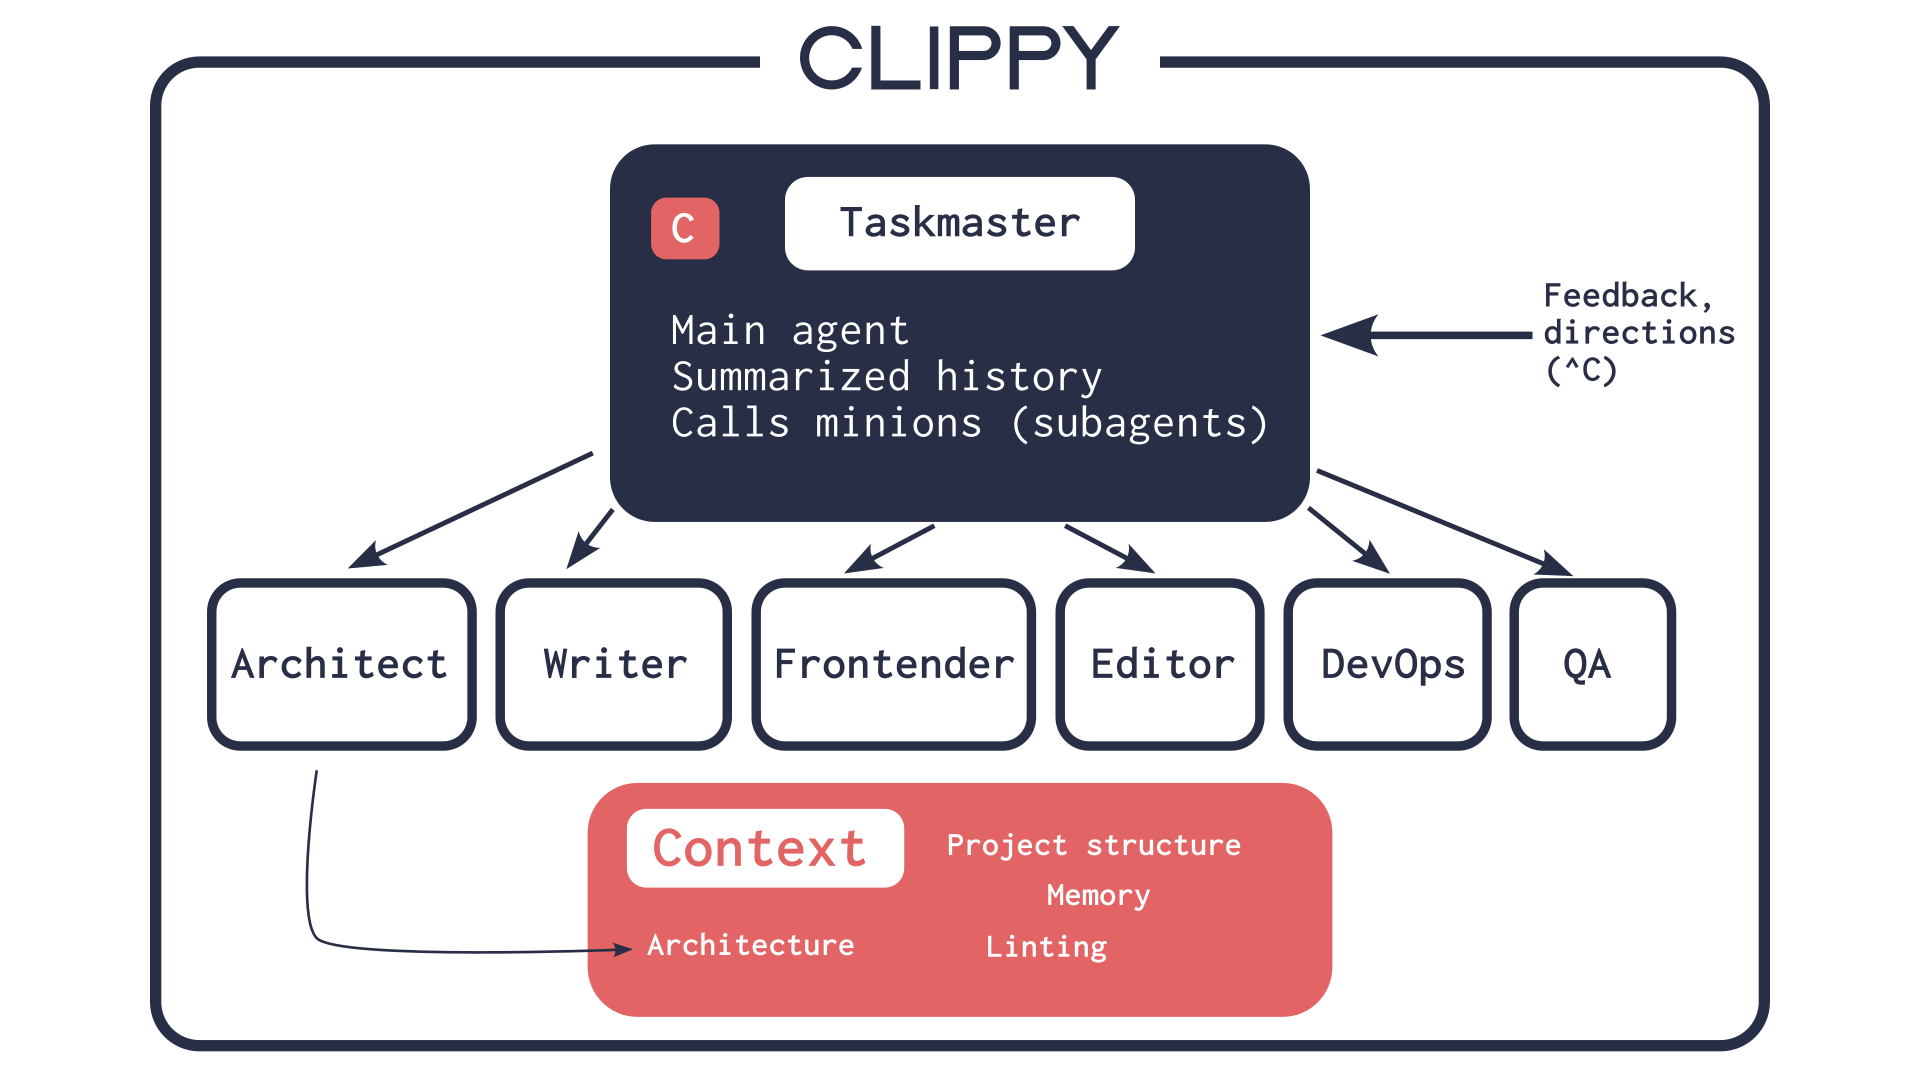
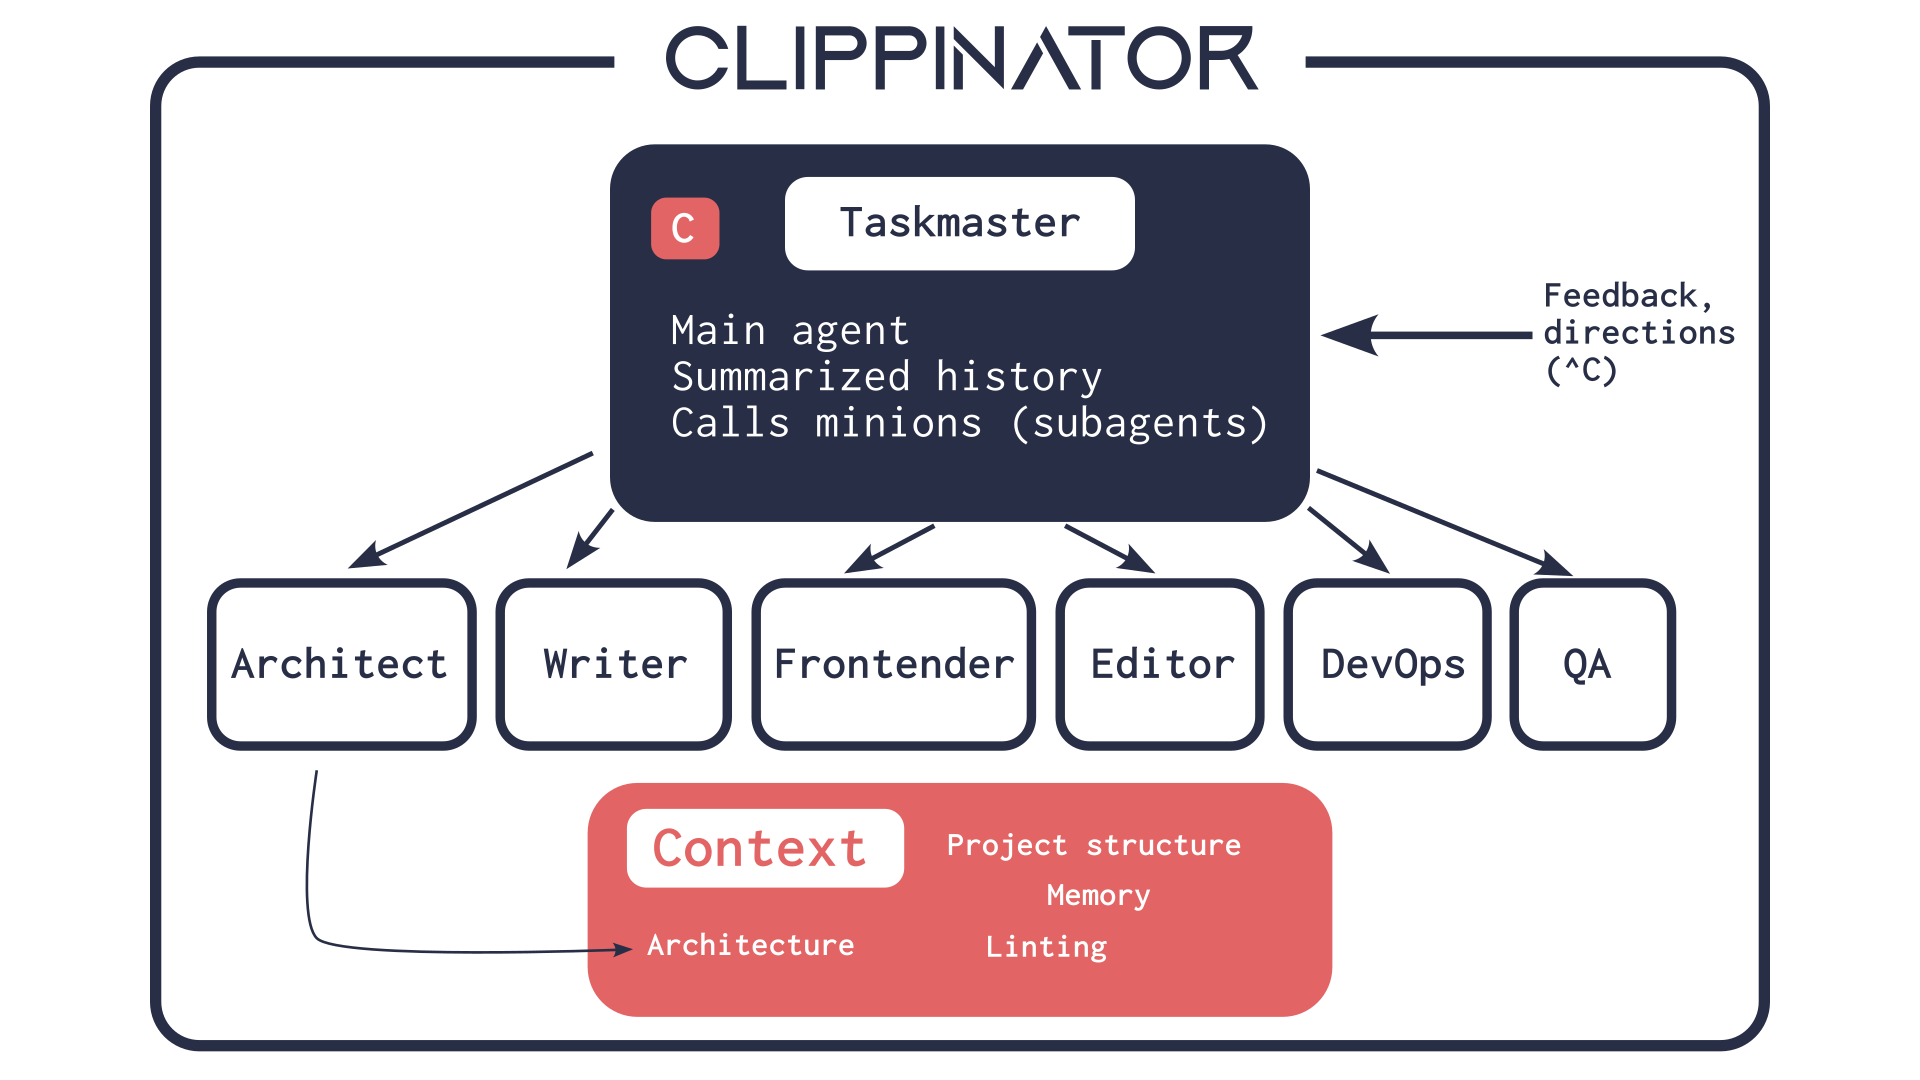
Renaming

Changed region(s): [[0.3125, 0.0, 0.6875, 0.0917]]

diff --git a/clippinator/project/project.py b/clippinator/project/project.py
@@ -4,7 +4,7 @@ import os
 import subprocess
 from dataclasses import dataclass, field
 
-from clippy.project.project_summary import get_file_summary
+from clippinator.project.project_summary import get_file_summary
 
 
 @dataclass
@@ -36,7 +36,7 @@ class Project:
             dir2:
                 file3.py
         """
-        from clippy.tools.utils import skip_file, skip_file_summary, trim_extra
+        from clippinator.tools.utils import skip_file, skip_file_summary, trim_extra
 
         res = ""
         if not os.path.isdir(path):
@@ -65,8 +65,8 @@ class Project:
         return res
 
     def lint(self, path: str = ''):
-        from clippy.tools.code_tools import lint_project
-        from clippy.tools.utils import trim_extra
+        from clippinator.tools.code_tools import lint_project
+        from clippinator.tools.utils import trim_extra
 
         path = os.path.join(self.path, path)
         path = path or self.path
@@ -81,8 +81,8 @@ class Project:
         return lint_project(path)
 
     def lint_file(self, path: str):
-        from clippy.tools.code_tools import lint_file
-        from clippy.tools.utils import trim_extra
+        from clippinator.tools.code_tools import lint_file
+        from clippinator.tools.utils import trim_extra
 
         path = os.path.join(self.path, path)
         if self.ci_commands.get('lintfile', '').strip():
@@ -101,7 +101,7 @@ class Project:
         return self.summary_cache
 
     def menu(self, prompt=None):
-        from clippy.tools.utils import select, get_input_from_editor
+        from clippinator.tools.utils import select, get_input_from_editor
         prompt_options = ["Edit action summary"] * (prompt is not None)
         res = select(["Continue", "Architecture", "Objective", "Memories", "CI"] + prompt_options, "Project Menu")
         if res == 1:
@@ -119,7 +119,7 @@ class Project:
             prompt.last_summary = get_input_from_editor(prompt.last_summary)
 
     def prompt_fields(self) -> dict:
-        from clippy.tools.architectural import templates
+        from clippinator.tools.architectural import templates
 
         default_architecture = templates['General']['architecture']
 

diff --git a/clippinator/__main__.py b/clippinator/__main__.py
@@ -4,9 +4,9 @@ import rich
 import typer
 from dotenv import load_dotenv
 
-from clippy.minions.taskmaster import Taskmaster
-from clippy.project import Project
-from clippy.tools.utils import text_prompt
+from clippinator.minions.taskmaster import Taskmaster
+from clippinator.project import Project
+from clippinator.tools.utils import text_prompt
 
 load_dotenv()
 
@@ -16,20 +16,20 @@ app = typer.Typer(help="Clippy is an AI coding assistant.")
 @app.command()
 def taskmaster(project_path: str, objective: str = ""):
     """
-    Create a new project using clippy.
+    Create a new project using clippinator.
     """
     try:
         if not objective and not os.path.exists(
-                os.path.join(project_path, ".clippy.pkl")
+                os.path.join(project_path, ".clippinator.pkl")
         ):
             objective = text_prompt("What project do I need to create?\n")
-        if not objective and os.path.exists(os.path.join(project_path, ".clippy.pkl")):
-            print(os.path.join(project_path, ".clippy.pkl"))
-            tm = Taskmaster.load_from_file(os.path.join(project_path, ".clippy.pkl"))
+        if not objective and os.path.exists(os.path.join(project_path, ".clippinator.pkl")):
+            print(os.path.join(project_path, ".clippinator.pkl"))
+            tm = Taskmaster.load_from_file(os.path.join(project_path, ".clippinator.pkl"))
             tm.run(**tm.project.prompt_fields())
             return
-        elif os.path.exists(os.path.join(project_path, ".clippy.pkl")):
-            tm = Taskmaster.load_from_file(os.path.join(project_path, ".clippy.pkl"))
+        elif os.path.exists(os.path.join(project_path, ".clippinator.pkl")):
+            tm = Taskmaster.load_from_file(os.path.join(project_path, ".clippinator.pkl"))
             project = tm.project
             project.objective = objective
             tm = Taskmaster(project)

diff --git a/clippinator/minions/taskmaster.py b/clippinator/minions/taskmaster.py
@@ -6,10 +6,10 @@ import pickle
 from langchain import LLMChain
 from langchain.agents import AgentExecutor, LLMSingleActionAgent
 
-from clippy.project import Project
-from clippy.tools import get_tools, SimpleTool
-from clippy.tools.subagents import Subagent
-from clippy.tools.tool import WarningTool
+from clippinator.project import Project
+from clippinator.tools import get_tools, SimpleTool
+from clippinator.tools.subagents import Subagent
+from clippinator.tools.tool import WarningTool
 from .base_minion import (
     CustomOutputParser,
     CustomPromptTemplate,
@@ -101,7 +101,7 @@ class Taskmaster:
     def save_to_file(self, path: str = ""):
         if not os.path.exists(self.project.path):
             return
-        path = path or os.path.join(self.project.path, f".clippy.pkl")
+        path = path or os.path.join(self.project.path, f".clippinator.pkl")
         with open(path, "wb") as f:
             prompt = {
                 "current_context_length": self.prompt.current_context_length,
@@ -113,7 +113,7 @@ class Taskmaster:
             pickle.dump((prompt, self.project), f)
 
     @classmethod
-    def load_from_file(cls, path: str = ".clippy.pkl"):
+    def load_from_file(cls, path: str = ".clippinator.pkl"):
         with open(path, "rb") as f:
             prompt, project = pickle.load(f)
         self = cls(project)

diff --git a/clippinator/minions/executioner.py b/clippinator/minions/executioner.py
@@ -1,7 +1,7 @@
 import yaml
 
-from clippy import tools
-from clippy.project import Project
+from clippinator import tools
+from clippinator.project import Project
 from .base_minion import BaseMinion, BaseMinionOpenAI
 from .prompts import execution_prompt, get_specialized_prompt
 from ..tools.architectural import DeclareArchitecture
@@ -58,7 +58,7 @@ def specialized_executioner(name: str, description: str, prompt: str,
 
 
 def get_specialized_executioners(project) -> dict[str, SpecializedExecutioner]:
-    with open('clippy/minions/specialized_minions.yaml') as f:
+    with open('clippinator/minions/specialized_minions.yaml') as f:
         data = yaml.load(f, Loader=yaml.FullLoader)
         return {line['name']: specialized_executioner(**{k.replace('-', '_'): v for k, v in line.items()})(project)
                 for line in data}

diff --git a/clippinator/tools/subagents.py b/clippinator/tools/subagents.py
@@ -2,14 +2,14 @@ from __future__ import annotations
 
 import typing
 
-from clippy.project import Project
+from clippinator.project import Project
 from .terminal import get_pids, end_sessions
 from .tool import SimpleTool
 from .utils import trim_extra, get_input_from_editor, yes_no_prompt
 from ..minions import extract_agent_name
 
 if typing.TYPE_CHECKING:
-    from clippy.minions.executioner import SpecializedExecutioner, Executioner
+    from clippinator.minions.executioner import SpecializedExecutioner, Executioner
 
 
 class Subagent(SimpleTool):

diff --git a/clippinator/tools/__init__.py b/clippinator/tools/__init__.py
@@ -4,7 +4,7 @@ from langchain.agents import Tool
 from langchain.tools import BaseTool
 from langchain.utilities import SerpAPIWrapper
 
-from clippy.project import Project
+from clippinator.project import Project
 from .architectural import Remember, TemplateInfo, TemplateSetup, SetCI, DeclareArchitecture
 from .browsing import SeleniumTool, GetPage
 from .code_tools import SearchInFiles, Pylint

diff --git a/clippinator/minions/base_minion.py b/clippinator/minions/base_minion.py
@@ -18,7 +18,7 @@ from langchain.chat_models import ChatOpenAI, ChatAnthropic
 from langchain.prompts import StringPromptTemplate
 from langchain.schema import AgentAction, AgentFinish
 
-from clippy.tools.tool import WarningTool
+from clippinator.tools.tool import WarningTool
 from .prompts import format_description
 from ..tools.utils import trim_extra, ask_for_feedback
 

diff --git a/clippinator/tools/architectural.py b/clippinator/tools/architectural.py
@@ -5,10 +5,10 @@ import subprocess
 
 import yaml
 
-from clippy.project import Project
+from clippinator.project import Project
 from .tool import SimpleTool
 
-with open('clippy/tools/templates.yaml') as f:
+with open('clippinator/tools/templates.yaml') as f:
     data = yaml.load(f, Loader=yaml.FullLoader)
     templates = {line['name']: line for line in data}
 

diff --git a/clippinator/tools/file_tools.py b/clippinator/tools/file_tools.py
@@ -11,7 +11,7 @@ from langchain.text_splitter import (
     RecursiveCharacterTextSplitter,
 )
 
-from clippy.tools.tool import SimpleTool
+from clippinator.tools.tool import SimpleTool
 from .utils import trim_extra, unjson
 
 
